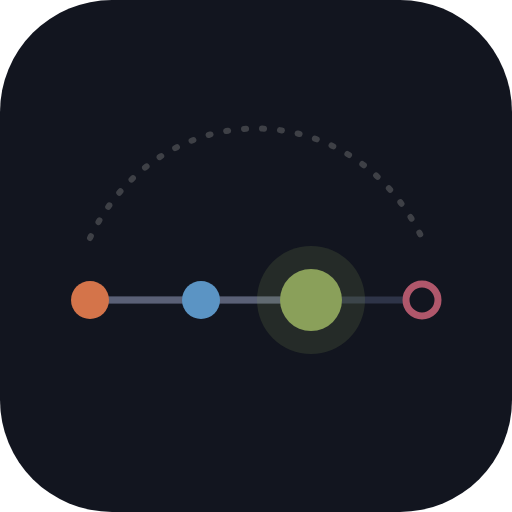
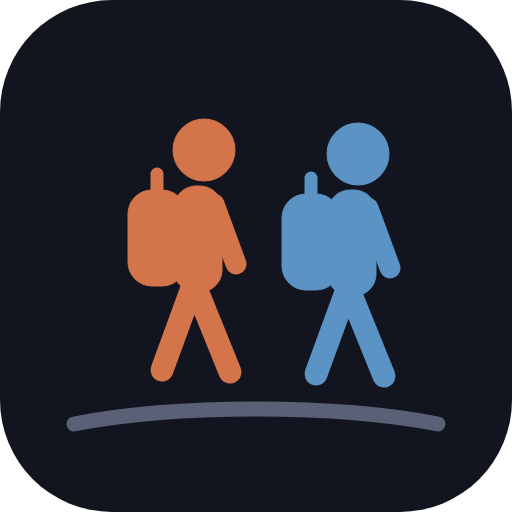
아이콘 — 배낭 메고 함께 걷는 두 사람
예전 아이콘은 앱 헤더의 여정 라인을 축약한 것이었는데, 만들 때 시안도
안 보여드리고 제가 정한 것이었고 실제로 문제도 있었습니다.
서울이 빠져 있었고(출발·도착지인데), 끝 점이 프라하라 종점이 틀렸고,
32px 에서는 점선 아치가 사라지고 점 네 개가 먼지처럼 흩어졌습니다.
홈 화면에서만 아이콘 구실을 하고 있었습니다.

뒷모습으로 네 번 그려봤지만 전부 실패했습니다 — 앞치마, 후드, 덩어리.
뒤에서 본 사람은 앞에서 본 사람과 윤곽이 같아서, 배낭을 어떻게 칠해도
옷으로 읽힙니다. 옆모습이면 배낭이 등 뒤로 튀어나와 윤곽만으로
"짊어졌다" 가 읽히고, 성큼 내딛는 다리도 같이 삽니다.

색은 도시 색 그대로입니다 (바르셀로나 주황 · 스위스 파랑).
발밑의 길은 --hairline 톤.

파비콘은 따로 그렸습니다. 16px 에서는 배낭도 다리도 안 남으므로
큰 아이콘을 줄이는 대신 남는 것(두 덩어리 + 길)만 크게 그렸습니다.

확인 — 180/192/512px 전부 형태 유지, 마스커블에 원형·스퀘어클 마스크를
씌워도 잘리는 부분 없음, apple-touch-icon 불투명(알파가 남으면 iOS 에서
검게 나옵니다), 파비콘 32px 에서 두 사람과 길이 읽힘.

폰에서는 홈 화면 아이콘을 지우고 다시 추가해야 바뀝니다 —
한 번 구워지면 서비스워커 캐시와 무관하게 그대로 남습니다.

diff --git a/service-worker.js b/service-worker.js
@@ -6,7 +6,7 @@
    배포 시 VERSION 만 올리면 캐시가 통째로 교체됩니다.
    =========================================================== */
 
-const VERSION = 'v74';
+const VERSION = 'v75';
 const CACHE   = `honeymoon-2026-${VERSION}`;
 
 const SHELL = [
